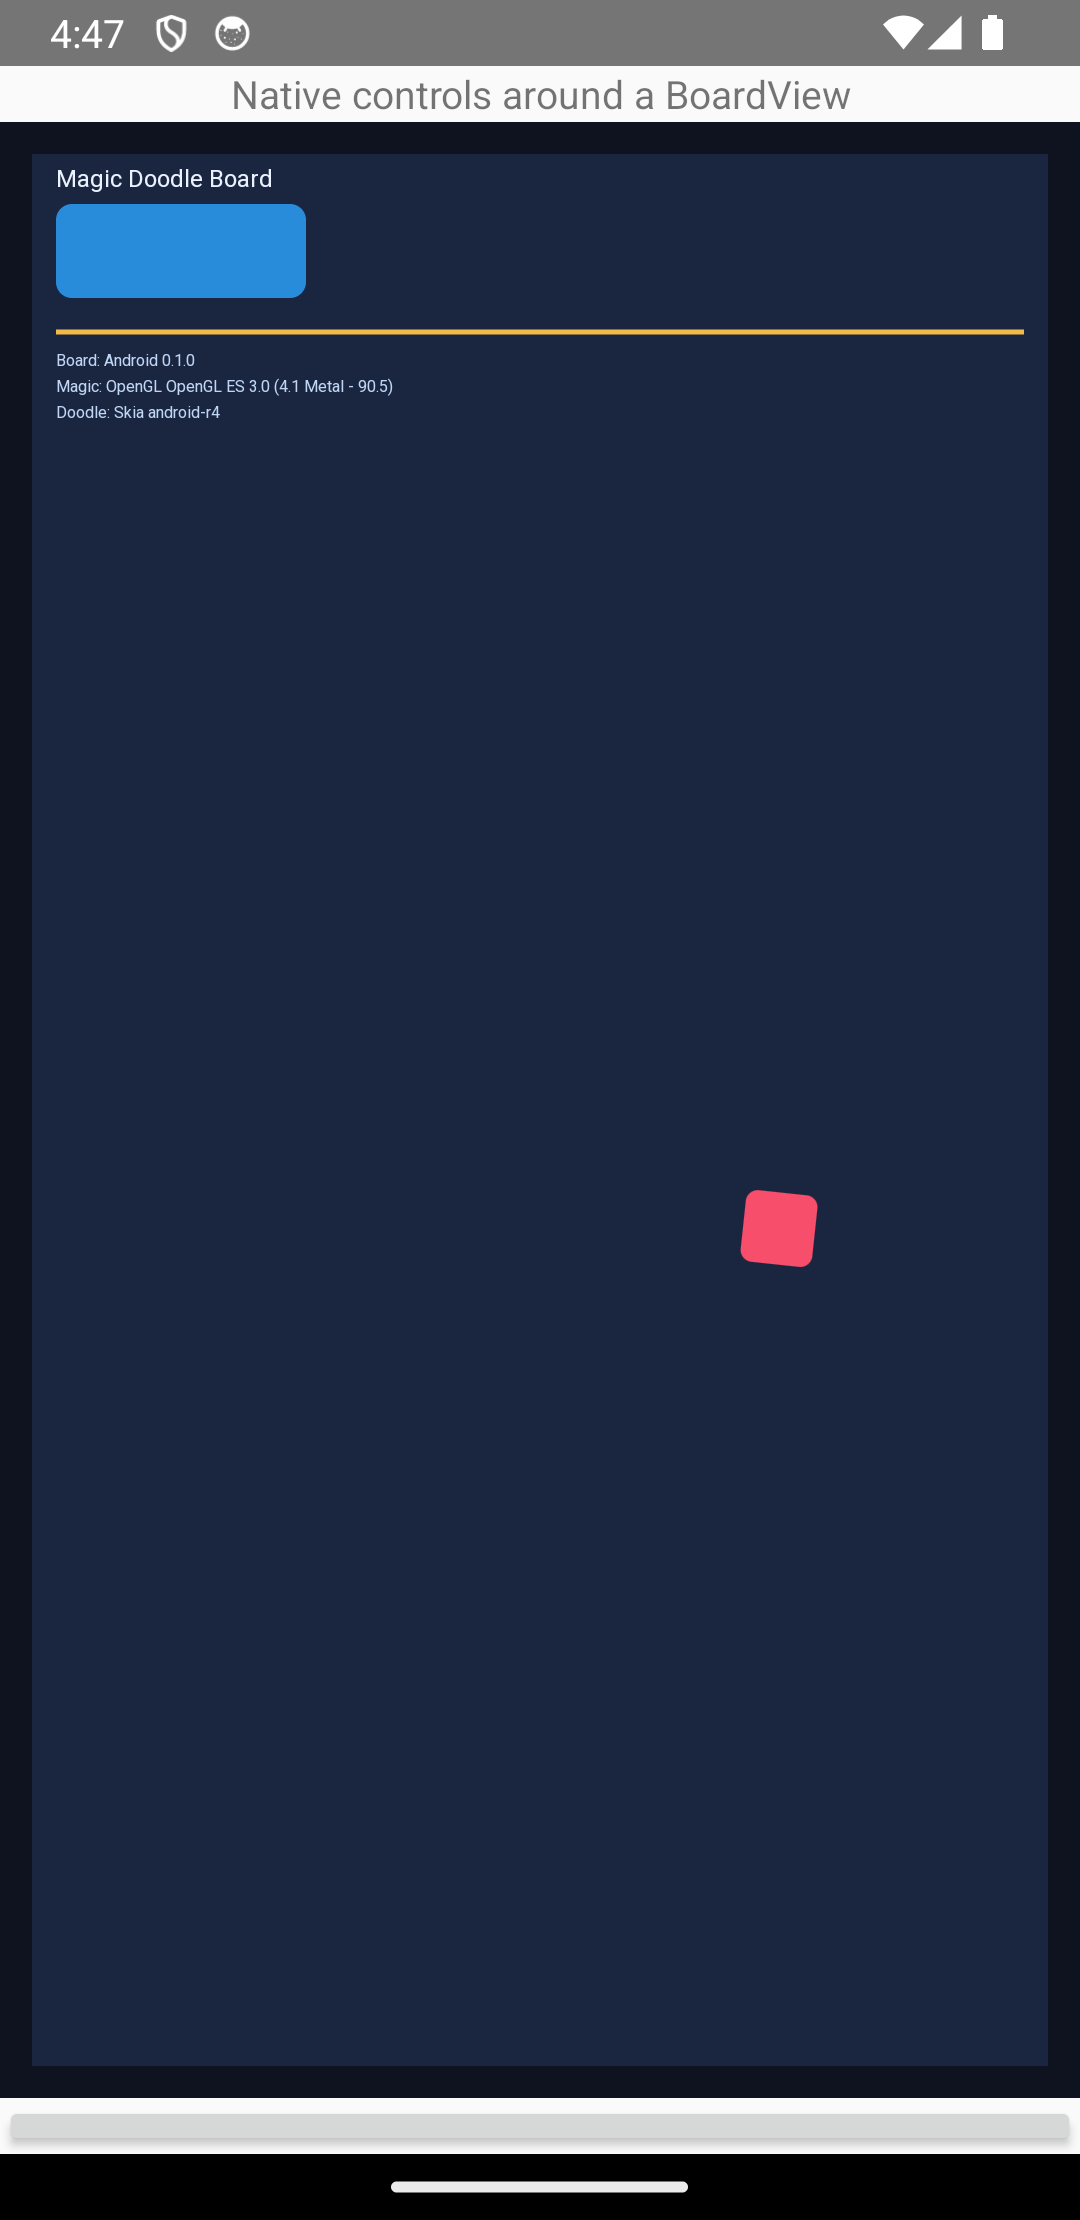
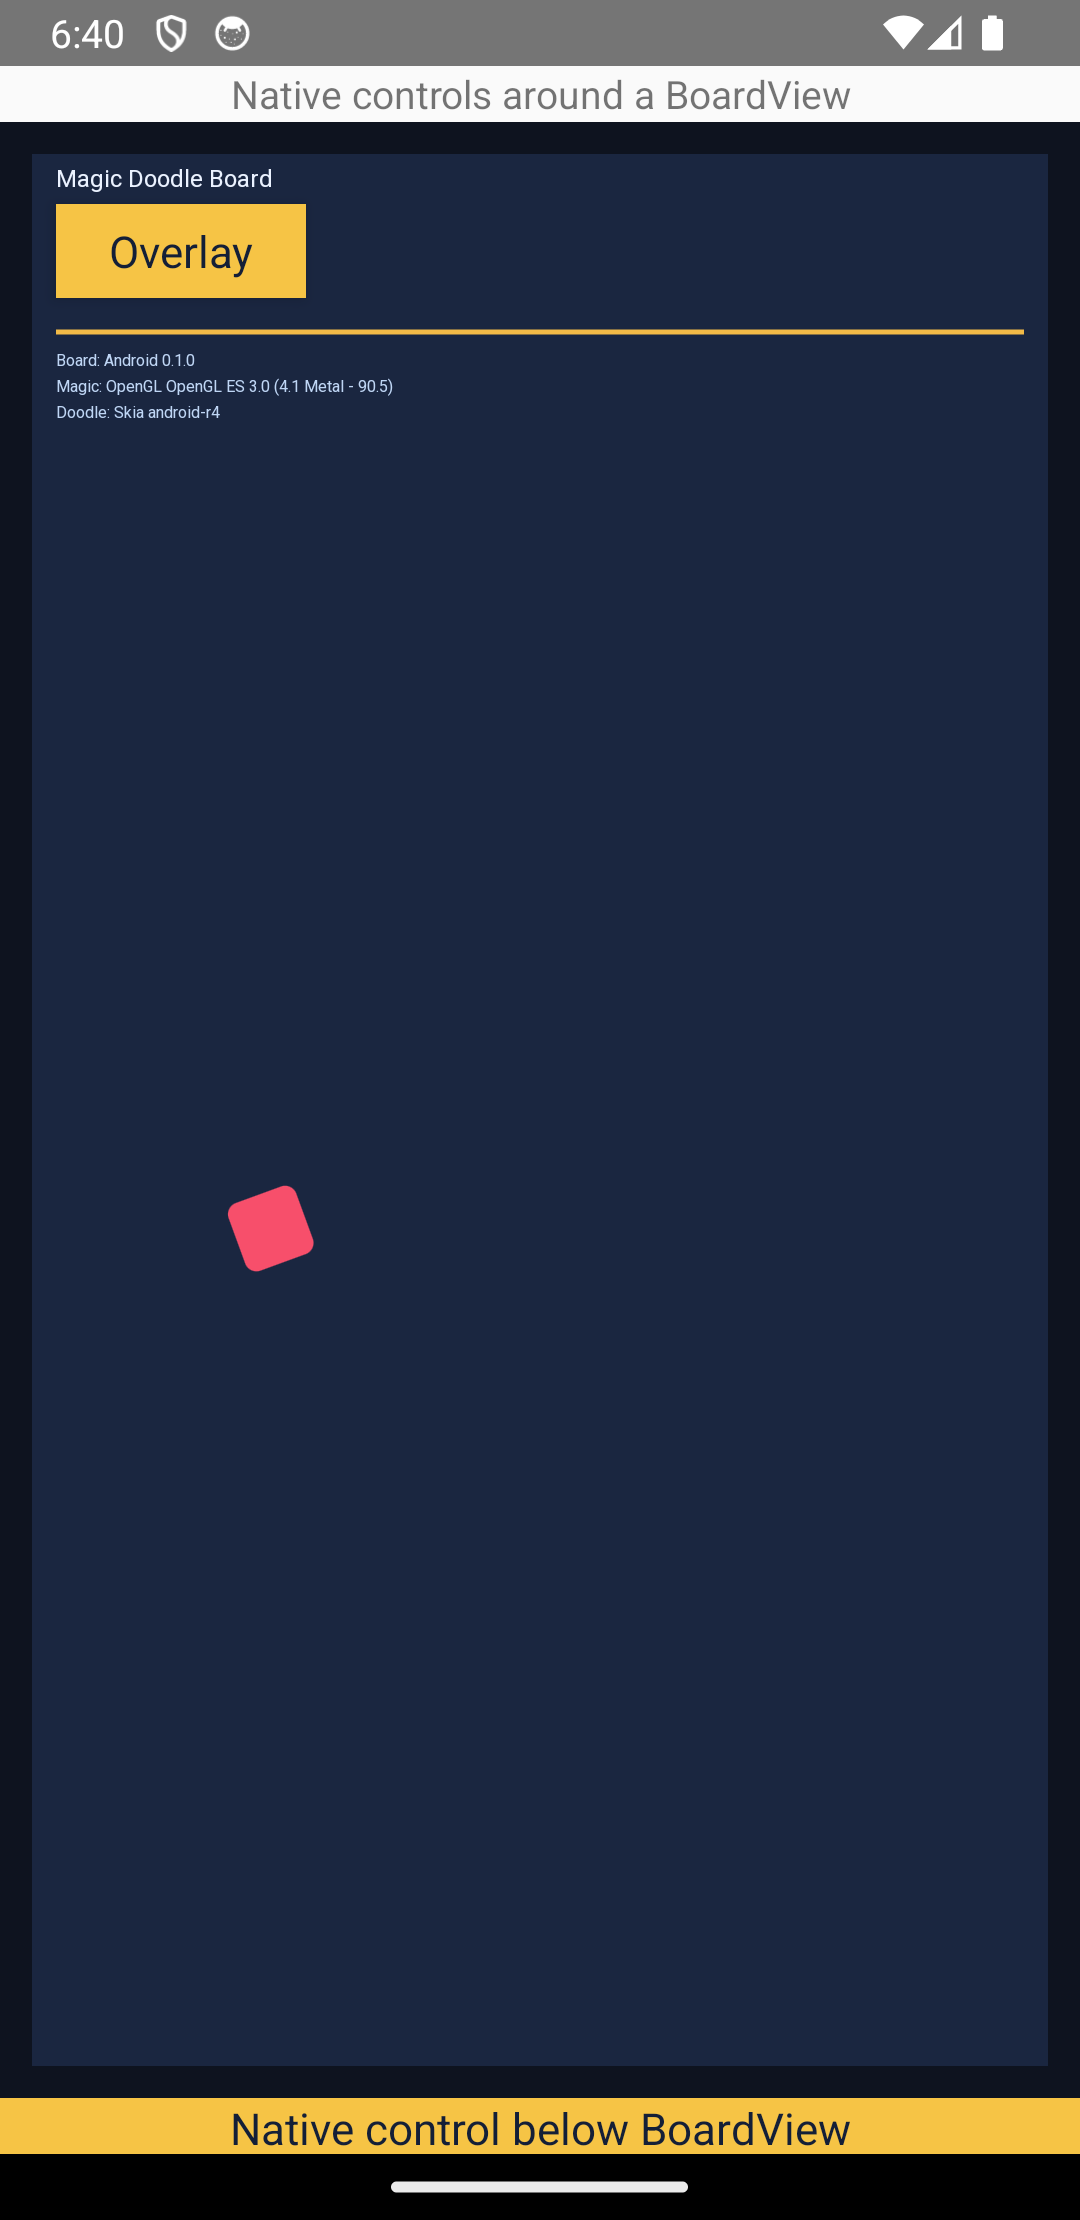
docs: record Android overlay smoke evidence
Record the TextureView composition decision, the Android runner readiness checks,\nand the clean arm64 AVD evidence for CPU, OpenGL ES, and Vulkan.\n\nThe inspected captures show the native overlay above the shared renderer, and\nthe recorded UI tap confirms that the native overlay receives input\nindependently of the Doodle surface.

diff --git a/plans/convert-to-magic-doodle-board.md b/plans/convert-to-magic-doodle-board.md
@@ -34,7 +34,8 @@ The new framework has exactly three public layers. **Board** owns application ho
 - [x] (2026-07-15) Converted the shared demo and every supported platform entry point to the new public APIs around `examples/common/magic_doodle_board_scene.c`; removed the unbuilt duplicate legacy demos.
 - [x] (2026-07-15) Replaced old CMake selections and target names with `BOARD_BACKEND`, `MAGIC_BACKEND`, and `DOODLE_RENDERER`; standalone layer builds and the iOS convenience entry use only the new selections.
 - [x] (2026-07-15) Removed temporary compatibility adapters, all framework-owned `tc_`/`Tc...` names, and obsolete legacy source directories after verifying no build references remained.
-- [ ] Execute the updated CI on its hosted runners and obtain clean Android OpenGL ES and Vulkan visual smoke evidence from a stable AVD. The 2026-07-16 local full build matrix, package-install chain, consumer, documentation update, all iOS simulator smokes, a clean Android CPU AVD capture, all desktop smoke scripts, and the Web HTTP/browser smoke are complete; compilation alone does not close this item.
+- [x] (2026-07-16) Obtained clean Android CPU, OpenGL ES, and Vulkan visual smoke evidence on the arm64 AVD. Each named script now waits for the real Activity window before capturing; the inspected images show the requested runtime identity and the above-renderer native overlay. Updated hosted CI still awaits its external runners.
+- [ ] Execute the updated CI on its hosted runners. The local full build matrix, package-install chain, consumer, documentation update, all iOS simulator smokes, Android CPU/OpenGL ES/Vulkan AVD smokes, all desktop smoke scripts, and the Web HTTP/browser smoke are complete; compilation alone does not close hosted CI acceptance.
 - [x] (2026-07-14) Added named smoke-test scripts for every currently supported matrix combination. `test-headless-cpu-skia.sh` and `test-android-opengl-skia.sh` were executed locally; the latter installed, launched, and captured the visible emulator scene.
 - [x] (2026-07-14) Migrated Board Web + Magic Web + Doodle Skia. The Emscripten 2.0.6 build produced the browser demo and Safari completed an eight-second smoke run over a local HTTP server; `scripts/test-web-skia.sh` records its generated artifacts.
 - [x] (2026-07-15) Converted `ios/CMakeLists.txt` into an iOS-only convenience entry point for the root Board + Magic + Doodle composition; it no longer compiles the legacy `Tc*` demo or graphics contexts directly.
@@ -105,6 +106,12 @@ The new framework has exactly three public layers. **Board** owns application ho
 - Observation: The available Android AVD can stall unrelated system apps and `system_server`, contaminating screenshots or delaying ADB even while the Magic Doodle Board CPU demo remains alive.
   Evidence: on 2026-07-16 the AVD displayed ANRs for Messages and System UI, while `logcat` recorded long `system_server` contentions and a live demo PID without a Magic Doodle Board fatal exception. After an emulator restart, the CPU demo produced a clean capture. The OpenGL ES APK built but this runner did not remain stable long enough for a trustworthy visual capture; do not treat its older capture as current-tree acceptance.
 
+- Observation: A child overlay inside Android `SurfaceView` or the renderer-owning `TextureView` can be composed beneath the changing renderer pixels even when the Java hierarchy and Board slot negotiation succeed.
+  Evidence: `uiautomator` reported the attached overlay and its tap changed its text, but the first screenshots showed only the portion outside the renderer. Routing the slot into a sibling `FrameLayout` above the `BoardView` produced a fully visible overlay across CPU, OpenGL ES, and Vulkan captures.
+
+- Observation: The Android matrix runner could report success after building without launching a smoke, or capture the Android splash screen before the Activity content was ready.
+  Evidence: under `set -e`, the former `[[ ... ]] && return` build-only guards made a false condition terminate the shell path. The runner now uses `if` guards, waits for the app PID, removes stale UI-dump data, and waits for the Activity title in a fresh `uiautomator` dump before `screencap`.
+
 Update this section whenever implementation inspection reveals a fact that changes file ownership, API shape, backend compatibility, or validation strategy. Include a concise command result or file reference as evidence.
 
 ## Decision Log
@@ -156,6 +163,10 @@ Update this section whenever implementation inspection reveals a fact that chang
 - Decision: Have Android BoardView own the render SurfaceView and native overlay children, with JNI translating opaque slot references on the UI thread.
   Rationale: This gives Android the same portable BoardNativeViewSlot contract as iOS while keeping Java View and JNI declarations out of installed headers. The initial implementation supports the documented above-renderer order, frame, rectangular clip, and visibility; below-renderer order reports unavailable.
   Date/Author: 2026-07-15 / Codex.
+
+- Decision: Supersede the render-SurfaceView implementation with a private `TextureView`-backed `Surface`, and place hybrid overlays in a caller-supplied sibling `FrameLayout` above `BoardView`.
+  Rationale: Both implementations preserve the opaque Java `Surface` to `ANativeWindow` boundary used by Board and Magic, but a sibling container gives Android compositor ordering that visibly places native slots above the renderer. BoardView translates Board-relative slot geometry into the container coordinate space and retains the JNI handle privately. The documented below-renderer limitation is unchanged.
+  Date/Author: 2026-07-16 / Codex.
 
 - Decision: Make Web explicit as `BOARD_BACKEND=WEB` and `MAGIC_BACKEND=WEB`.
   Rationale: Public configuration must describe the actual implementation. The Magic Web provider may initially use WebGL 2 privately and later add WebGPU without changing the Board contract.
@@ -509,6 +520,18 @@ ANRed; Vulkan rebuilt the current APK but the same AVD stalled before a
 trustworthy launch/capture. Those generated, contaminated screenshots were
 discarded rather than recorded as acceptance evidence.
 
[phone redacted]: A subsequent cold-booted arm64 AVD completed all three named
+Android smokes after the reusable host was changed to a private
+`TextureView`-backed `Surface` and the overlay was placed in a sibling
+container above it. `android-cpu-emulator.png`, `android-opengl-emulator.png`,
+and `android-vulkan-emulator.png` were visually inspected and show the
+requested CPU, OpenGL ES, and Vulkan identities, the shared scene, the native
+overlay above the renderer, and the native control below it. A tap at the
+overlay coordinates changed its text to `Tapped` in a fresh UI hierarchy,
+proving independent native input. The Android matrix runner now rejects a
+build-only false guard, waits for the app PID, and waits for the real Activity
+title before capturing. Hosted CI is the remaining external acceptance item.
+
 At the end of each milestone, append a short entry here describing what is now observable, what remains incomplete, and any design lesson that should guide later milestones. At final completion, compare the actual standalone build commands, supported backend matrix, demo behavior, and ABI checks against the purpose stated above.
 
 ## Editorial Report
@@ -519,7 +542,7 @@ This report is an in-progress factual handoff maintained under `.agent/PLANS.md`
 
 The original engineering problem was a monolithic C-first graphics runtime whose lifecycle, platform hosting, graphics contexts, Canvas API, and renderer behavior were coupled through legacy `Tc*` interfaces. The migration set out to make the same demo scene composable from three independent public libraries: Board for hosting and events, Magic for frame and graphics-context ownership, and Doodle for Canvas and renderers.
 
-The working tree now contains those three package trees, public versioned capability boundaries, a shared demo scene, and recorded runnable paths for headless CPU, macOS SDL3 CPU/OpenGL/Metal/Vulkan, iOS CPU/OpenGL ES/Metal, Android CPU/OpenGL ES/Vulkan, and Web. The result is developer-visible: supported builds choose `BOARD_BACKEND`, `MAGIC_BACKEND`, and `DOODLE_RENDERER` explicitly and application code composes a Board frame with a Magic frame and a Doodle Canvas. This is not yet a final completion claim because mobile-host acceptance and the full supported-matrix/CI run remain open.
+The working tree now contains those three package trees, public versioned capability boundaries, a shared demo scene, and recorded runnable paths for headless CPU, macOS SDL3 CPU/OpenGL/Metal/Vulkan, iOS CPU/OpenGL ES/Metal, Android CPU/OpenGL ES/Vulkan, and Web. The result is developer-visible: supported builds choose `BOARD_BACKEND`, `MAGIC_BACKEND`, and `DOODLE_RENDERER` explicitly and application code composes a Board frame with a Magic frame and a Doodle Canvas. Fresh mobile-host acceptance, including Android GPU captures, is now recorded; hosted CI remains the only open external acceptance.
 
 ### Original Plan versus Actual Outcome
 
@@ -527,7 +550,7 @@ The plan intended to replace the retired runtime with exactly three public layer
 
 The executed result changed direction in several material ways. Android hosting began as a NativeActivity path but became an embeddable `org.magicdoodle.board.BoardView`; this better satisfies the reusable-view requirement. Web changed from direct local-file opening to an HTTP-served smoke test and gained a preloaded Roboto font because the browser loader and the pinned Skia font manager required those conditions. SDL3 desktop Vulkan was initially excluded because the r4 macOS archive lacked Ganesh Vulkan symbols and no loader was present; Vulkan SDK 1.4.350.1 and Skia r5 removed those prerequisites, so the macOS path was implemented and validated. Blend2D, NanoVG, and Vello remain deliberately unavailable rather than becoming no-op implementations; provider-owned getter stubs and configuration tests now make that status explicit.
 
-The remaining work is not represented as delivered. Native slots currently support documented above-renderer ordering; below-renderer ordering is unavailable. The supported-matrix, CI, installation, and final observable acceptance work has not been rerun as one final set after the latest mobile-host changes. The Editorial Report itself is consequently incremental rather than final.
+The remaining work is not represented as delivered. Native slots currently support documented above-renderer ordering; below-renderer ordering is unavailable. Local supported-matrix, installation, and observable acceptance evidence is recorded, but the updated hosted CI has not yet run. The Editorial Report is consequently incremental rather than final.
 
 ### What Changed
 
@@ -595,20 +618,18 @@ below it. The Android visible smoke remains unavailable locally because no
 AVD is configured or booted.
 
 An Android arm64 AVD became available later on 2026-07-16. After restarting it
-to clear unrelated Messages and System UI ANRs, the current CPU APK was
-installed, remained alive, and produced a clean visual capture. It shows the
-embedded BoardView, CPU identity, native overlay, and surrounding native host
-controls with explicit contrasting labels. The runner subsequently returned to
-AVD-wide system ANRs; OpenGL ES and Vulkan remain build-validated rather than
-fresh visually accepted on this tree.
+to clear unrelated Messages and System UI ANRs, the current CPU, OpenGL ES,
+and Vulkan APKs installed, launched, and produced clean visual captures. The
+screens show their runtime identities, the embedded BoardView, a native overlay
+above the renderer, and a surrounding native control. The overlay's text also
+changed to `Tapped` after an ADB tap, independently of the Doodle surface.
 
 The final local desktop and Web pass on the same tree was successful: the
 headless integration test passed; SDL3 CPU, OpenGL, Metal, and Vulkan each
 completed their three-frame smoke; the Vulkan validation log was empty; and
 the Web demo was served to Safari over loopback HTTP for eight seconds. The
-remaining local evidence gap is specifically clean Android OpenGL ES and
-Vulkan screenshots from a stable AVD, not a configuration or compilation
-failure in either path.
+remaining evidence gap is updated hosted CI execution, not Android visual
+acceptance or local configuration and compilation.
 
 ### Useful Evidence and Examples
 
@@ -618,9 +639,17 @@ For human-visible evidence, inspect `artifacts/final/android-cpu-emulator.png`, 
 
 ### Limitations, Remaining Work, and Open Questions
 
-The plan remains in progress. The Progress list still requires completion or explicit disposition of the reusable mobile host modes, full supported-matrix validation, CI and installation checks, documentation and final observable acceptance, and final reconciliation of this report. The current mobile overlay implementation does not support below-renderer ordering. GLFW and winit remain configuration-fail Board stubs; Blend2D, NanoVG, and Vello remain configuration-fail Doodle renderer selections backed only by unavailable getter stubs. Headless GPU contexts are outside the initial scope.
+The plan remains in progress only until the updated CI runs on its hosted
+runners and this report is finalized from that evidence. The current mobile
+overlay implementation does not support below-renderer ordering. GLFW and
+winit remain configuration-fail Board stubs; Blend2D, NanoVG, and Vello remain
+configuration-fail Doodle renderer selections backed only by unavailable getter
+stubs. Headless GPU contexts are outside the initial scope.
 
-Desktop SDL3 Vulkan is validated only on macOS with Vulkan SDK 1.4.350.1, MoltenVK, and Skia r5. Windows and Linux need their own SDK/driver runners and smoke-script executions before this repository can claim support there. The supported mobile paths also need current-tree visible-device verification, especially after the BoardView and overlay changes.
+Desktop SDL3 Vulkan is validated only on macOS with Vulkan SDK 1.4.350.1,
+MoltenVK, and Skia r5. Windows and Linux need their own SDK/driver runners and
+smoke-script executions before this repository can claim support there. Android
+CPU, OpenGL ES, and Vulkan have current-tree visible-device verification.
 
 ### Possible Article Angles
 